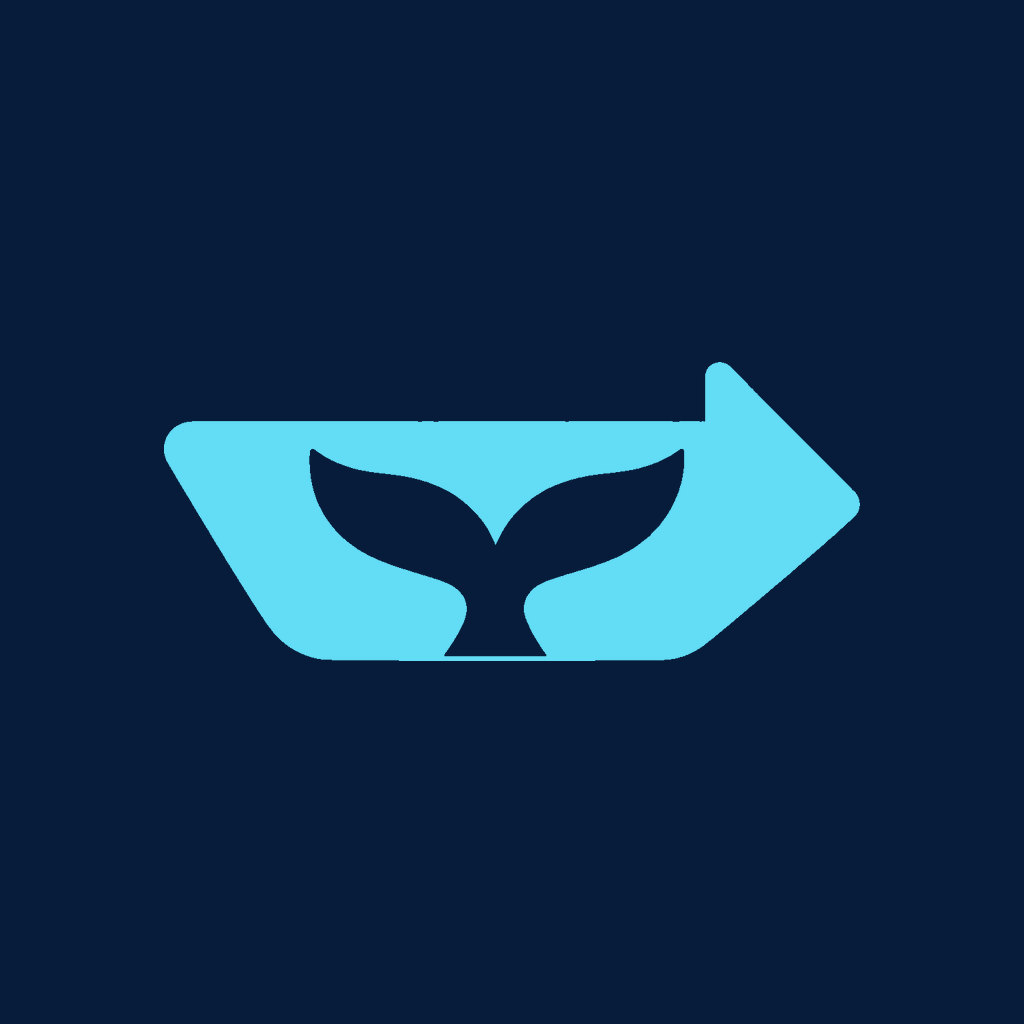
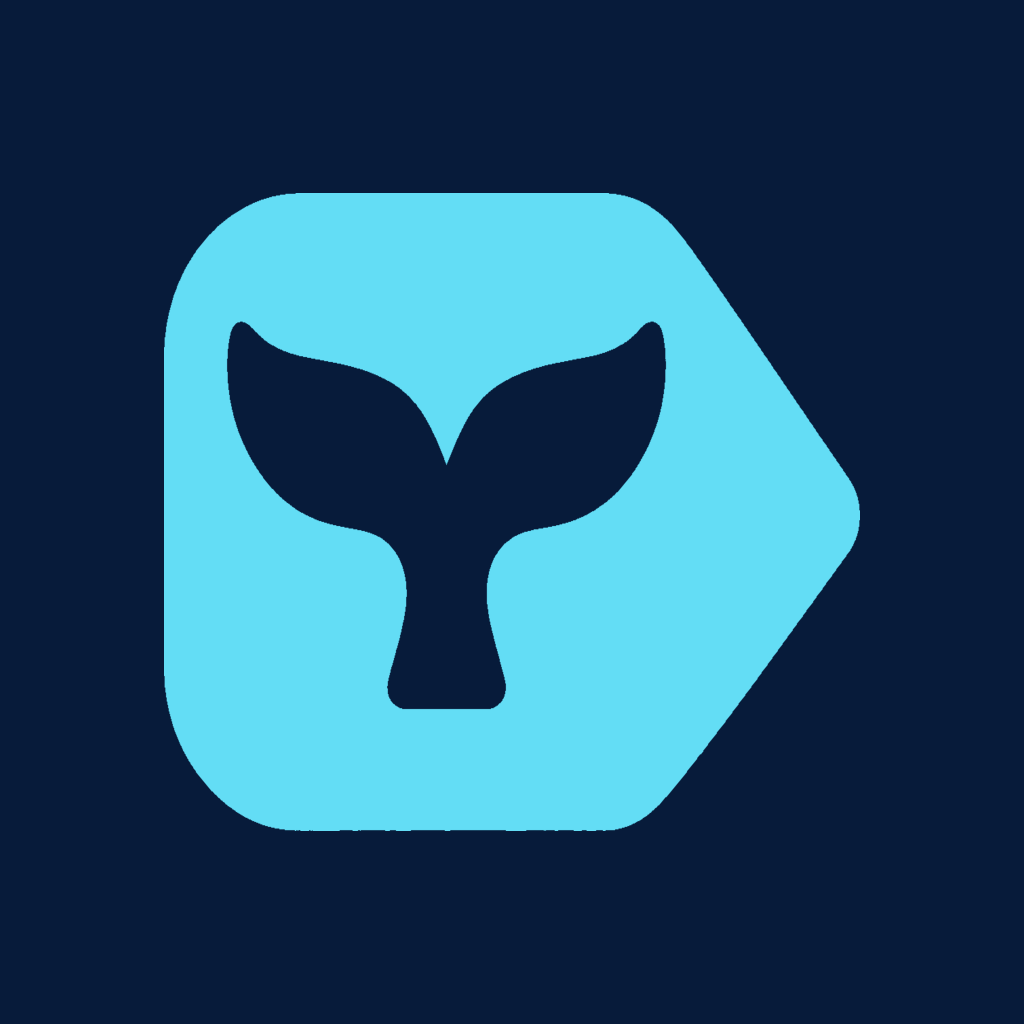
design: improve tail beacon small-size mark

Changed region(s): [[0.1562, 0.1875, 0.8438, 0.8125]]

diff --git a/assets/brand/concepts/c-tail-beacon/prompt.md b/assets/brand/concepts/c-tail-beacon/prompt.md
@@ -3,10 +3,10 @@
 ```text
 Use case: logo-brand
 Asset type: minimal native desktop application icon concept for macOS and Windows
-Primary request: redesign the ImagePorter / 鲸舟 Tail Beacon mark as one compact connected transfer symbol: a broad geometric cyan vessel/chevron silhouette containing one unmistakable deep-navy whale-tail negative-space cutout and exactly one rightward arrow cue
-Subject: one unified, horizontally balanced abstract symbol with a stable outer silhouette; the deep-navy tail cutout must have two large symmetrical flukes, a wide central V, and a short broad peduncle, occupying roughly one third of the symbol interior so it remains unmistakable at actual 16 and 24 pixels; the transfer arrow must point right exactly once and integrate into the outer silhouette
-Style/medium: strict flat vector-friendly geometry, hard clean edges, minimal, professional developer-tool character, no more than three major shapes total, designed first for actual 16, 24, and 32 pixel rendering
-Composition/framing: centered single unified icon system, generous 16 percent safe-area padding on every side, strong balanced negative space, no detached components
-Color palette: solid deep navy background and solid ice-blue/cyan symbol only; uniform flat fills with no tonal variation
-Constraints: absolutely no separate vertical bar, no stem-and-loop construction, no P-shaped curve, no readable I or P, no visible letters or words, exactly one rightward arrow, whale tail must be negative space rather than a positive shape, no mascot, no mockup scene, no external label, no watermark, no tiny details, no thin outlines, no gradients, no glow, no shadow, no bevel, no texture, do not imitate the Docker whale trademark
+Primary request: redesign the ImagePorter / 鲸舟 Tail Beacon mark as one compact near-square connected cyan transfer symbol with one large fully enclosed deep-navy whale-tail negative-space cutout and exactly one bold integrated rightward arrow
+Subject: one unified rounded geometric transfer tile/shield whose outer right edge forms a distinct arrowhead; visible symbol width-to-height ratio must be between 0.9 and 1.2, ideally 1.05; center a fully enclosed whale-tail cutout in the upper-middle, with two broad symmetrical flukes, a deep central V, and a short broad peduncle, surrounded on all sides including below by a thick continuous cyan border; the tail must occupy about one third of the symbol and remain unmistakable at actual 16 pixels
+Style/medium: strict flat vector-friendly geometry, hard clean edges, minimal, professional developer-tool character, no more than three major shapes total, designed first on a 16-pixel grid
+Composition/framing: centered single connected symbol, 16 percent safe-area padding on every side, near-square rather than horizontal, bold arrowhead at least one quarter of symbol width, thick positive and negative strokes that survive 16, 24, and 32 pixels
+Color palette: solid deep navy background and one solid ice-blue/cyan symbol only, uniform flat fills
+Constraints: whale tail must be a fully enclosed deep-navy hole with cyan beneath its peduncle and no opening to the exterior; exactly one rightward arrow and one arrowhead; no separate vertical bar, no stem-and-loop construction, no P-shaped curve, no readable I or P, no letters, no detached components, no mascot, no mockup, no label, no watermark, no tiny details, no thin outlines, no gradients, no glow, no shadow, no bevel, no texture, do not imitate the Docker whale trademark
 ```
